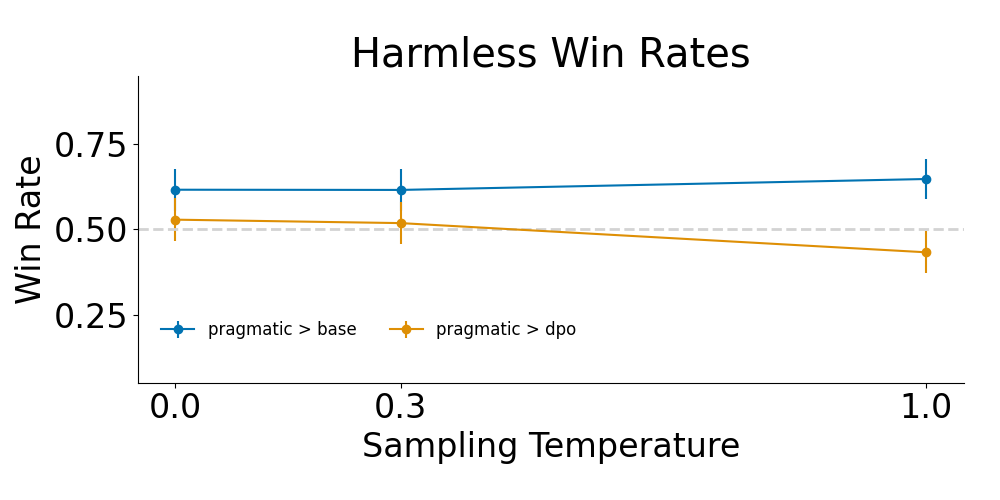
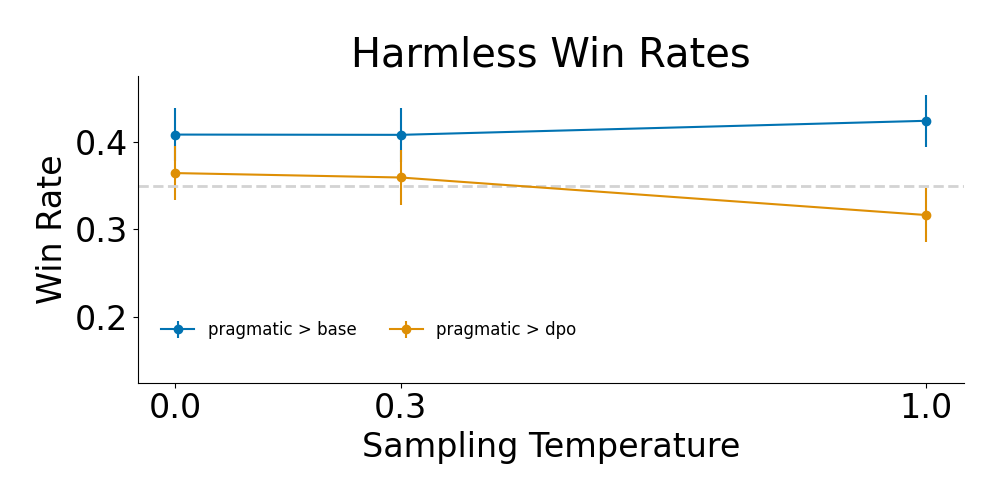
updats

Changed region(s): [[0.0, 0.24, 0.961, 0.66], [0.155, 0.33, 0.961, 0.42], [0.155, 0.21, 0.93, 0.3]]

diff --git a/pragmalign/hh_rlhf/plot.py b/pragmalign/hh_rlhf/plot.py
@@ -32,7 +32,8 @@ def plot_results(temperatures, means_ft, errors_ft, labels, title, filename):
     ax.set_xlabel('Sampling Temperature')
     ax.set_xticks(temperatures)
     ax.set_xticklabels(map(str, temperatures))
-    ax.set_ylim(0.05, 0.95)  
+    ax.set_yticklabels([0.1, 0.2, 0.3, 0.4, 0.5, 0.6, 0.7])
+    ax.set_ylim(0.05, 0.75)  
     ax.set_xlim(min(temperatures) - 0.05, max(temperatures) + 0.05)
     ax.axhline(y=0.5, color='lightgrey', linestyle='--', linewidth=2)
     ax.legend(loc='upper left', ncol=2, fontsize=8, frameon=False, bbox_to_anchor=(0.01, 0.25), prop={'size': 12})
